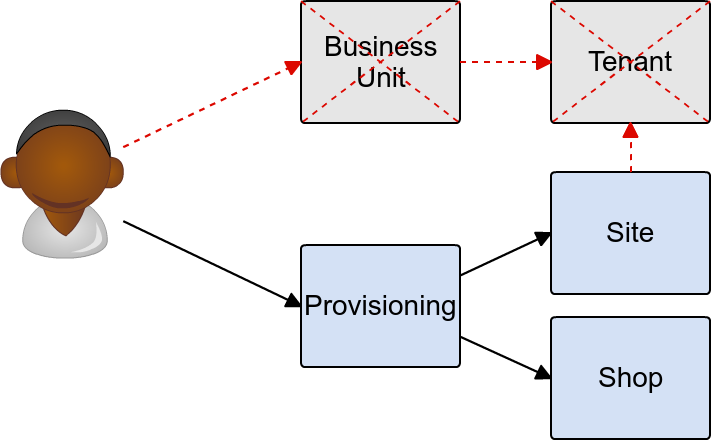
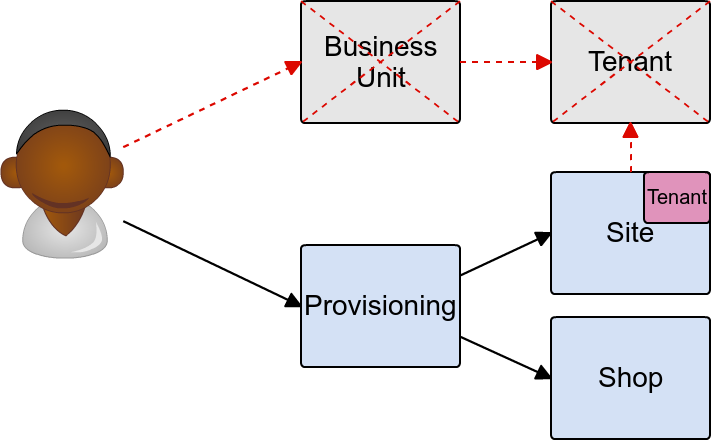
Show Tenant within Site

Changed region(s): [[0.8973, 0.3841, 1.0, 0.5318]]

diff --git a/reviews/review-20170718/index.html b/reviews/review-20170718/index.html
@@ -713,8 +713,9 @@
             <h2>Other Tasks</h2>
 
             <ul>
+              <li>Filtering by manufacturer</li>
               <li>Category query validation</li>
-              <li>Full listing of all products via product-view</li>
+              <li>Full list of products by means of product-view</li>
             </ul>
 
         </section>
